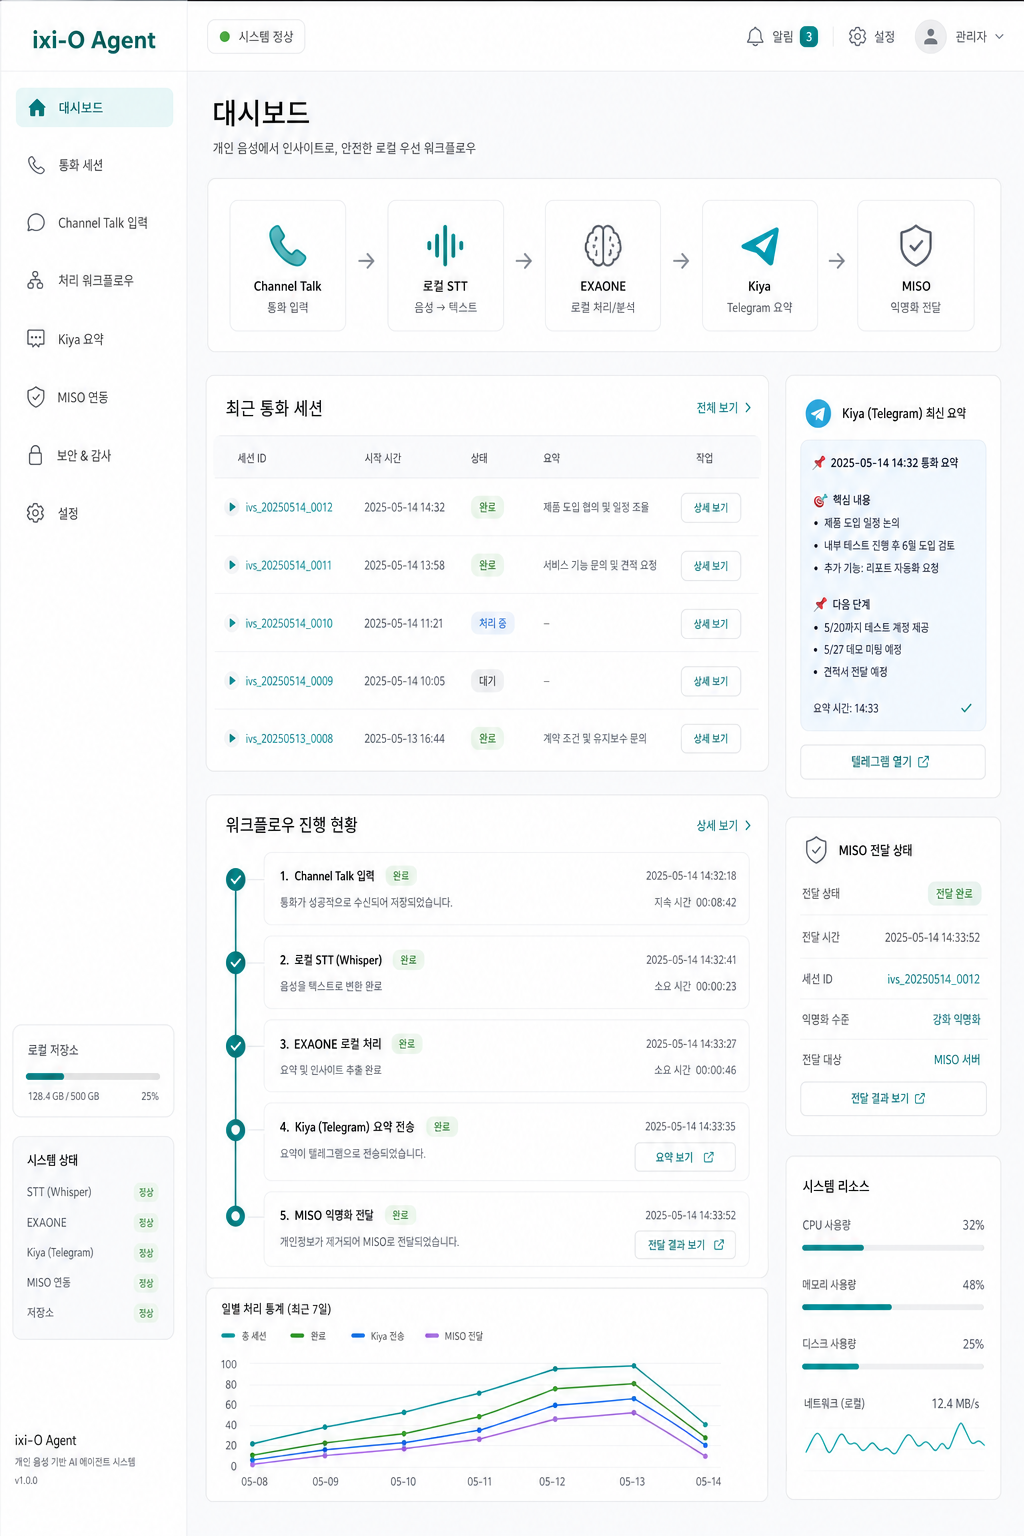
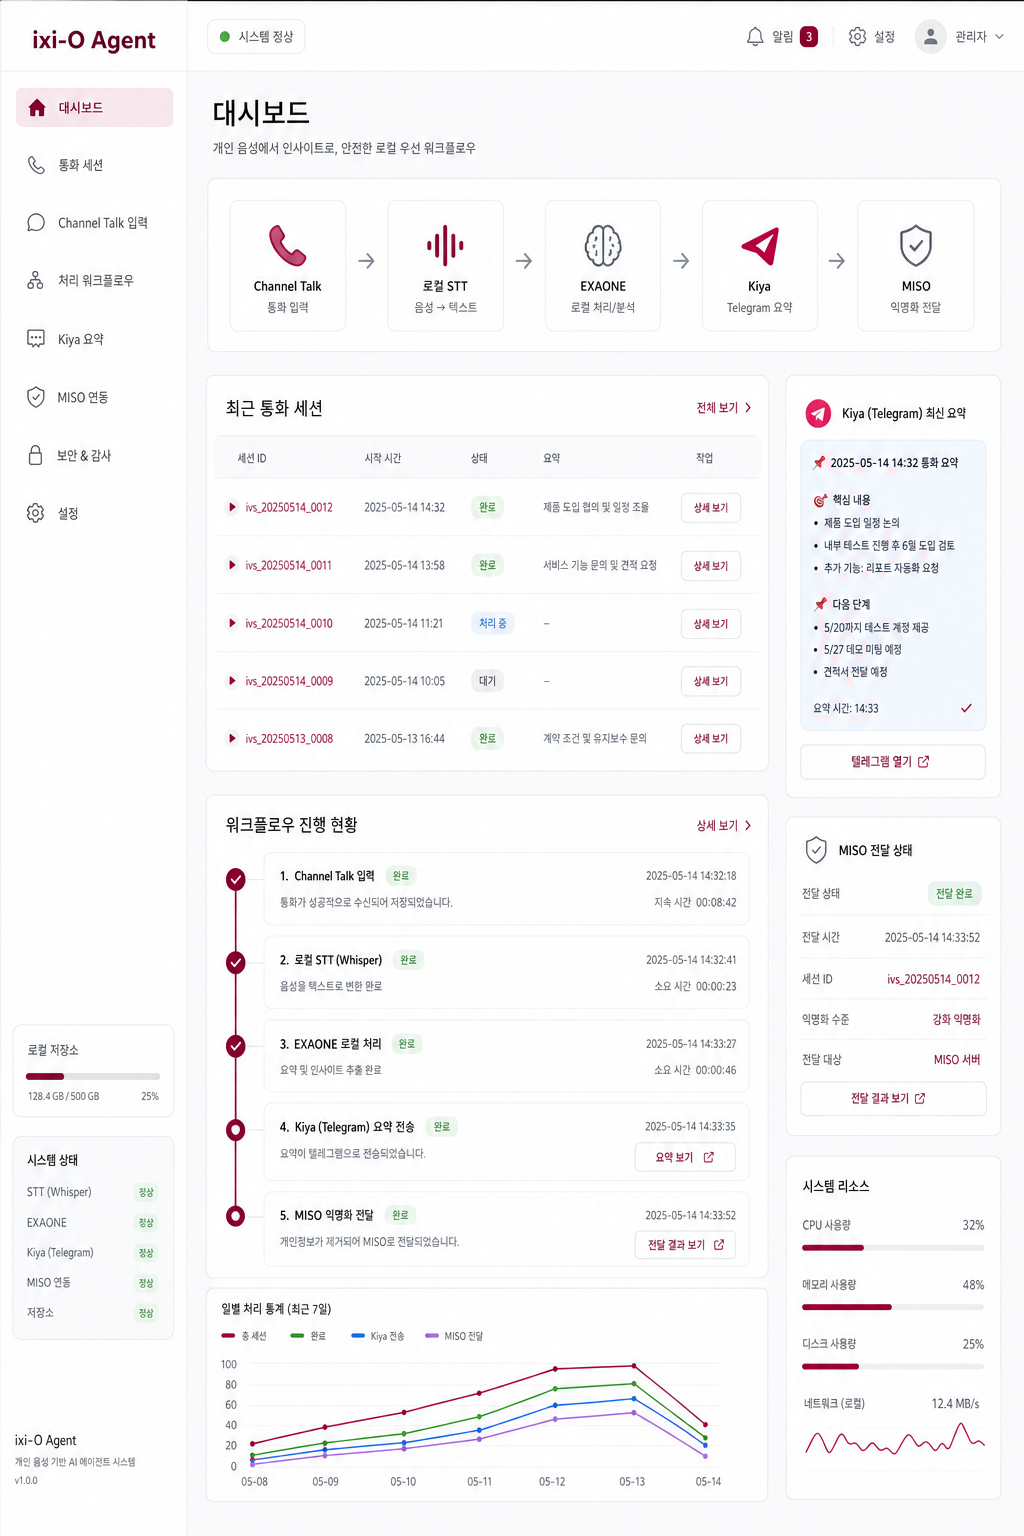
Apply ixi-O visual branding

diff --git a/apps/local-web/src/app/styles.css b/apps/local-web/src/app/styles.css
@@ -1,13 +1,16 @@
 :root {
   color-scheme: light;
   font-family: -apple-system, BlinkMacSystemFont, "Segoe UI", sans-serif;
-  /* Brand tokens: update these values later to re-skin the product without rewriting component CSS. */
-  --brand-primary: #2563eb;
-  --brand-primary-hover: #1d4ed8;
-  --brand-primary-weak: #eaf2ff;
-  --brand-primary-weak-border: #c9dcff;
-  --brand-focus-ring: rgba(37, 99, 235, 0.24);
-  --color-background: #f7f8fa;
+  /* Brand tokens: LG U+ / ixi-O inspired, isolated so exact brand-guide values can be swapped later. */
+  --brand-primary: #a50034;
+  --brand-primary-hover: #87002a;
+  --brand-primary-weak: #fff0f5;
+  --brand-primary-weak-border: #f1bad0;
+  --brand-secondary: #6f2cff;
+  --brand-secondary-weak: #f4f0ff;
+  --brand-accent-warm: #f0406d;
+  --brand-focus-ring: rgba(165, 0, 52, 0.24);
+  --color-background: #faf8fb;
   --color-surface: #ffffff;
   --color-surface-muted: #f9fafb;
   --color-surface-subtle: #f2f4f6;
@@ -23,9 +26,9 @@
   --status-success-border: #b7e8d2;
   --status-warning: #b76e00;
   --status-warning-weak: #fff4dc;
-  --code-surface: #eef5ff;
-  --code-border: #c9dcff;
-  --code-text: #174ea6;
+  --code-surface: #fff3f7;
+  --code-border: #f1bad0;
+  --code-text: #8a002b;
   --radius-control: 8px;
   --shadow-raised: 0 20px 50px rgba(25, 31, 40, 0.1);
   --shadow-soft: 0 14px 36px rgba(25, 31, 40, 0.08);
@@ -705,7 +708,7 @@ pre {
   height: 34px;
   place-items: center;
   border-radius: 8px;
-  background: var(--brand-primary);
+  background: linear-gradient(135deg, var(--brand-primary), var(--brand-accent-warm) 62%, var(--brand-secondary));
   color: var(--color-surface);
   font-size: 13px;
   letter-spacing: 0;
@@ -888,7 +891,7 @@ pre {
   align-items: center;
   padding: 14px 16px;
   border-bottom: 1px solid var(--color-border);
-  background: var(--color-surface-muted);
+  background: linear-gradient(90deg, var(--brand-primary-weak), var(--color-surface-muted) 58%);
 }
 
 .showcase-product-header span,
@@ -913,7 +916,7 @@ pre {
   margin: 0;
   overflow: hidden;
   border-bottom: 1px solid var(--color-border);
-  background: var(--color-surface-subtle);
+  background: linear-gradient(135deg, var(--brand-primary-weak), var(--brand-secondary-weak));
 }
 
 .showcase-product-visual img {

diff --git a/apps/showcase-static/styles.css b/apps/showcase-static/styles.css
@@ -1,13 +1,16 @@
 :root {
   color-scheme: light;
   font-family: -apple-system, BlinkMacSystemFont, "Segoe UI", sans-serif;
-  /* Brand tokens: update these values later to re-skin the product without rewriting component CSS. */
-  --brand-primary: #2563eb;
-  --brand-primary-hover: #1d4ed8;
-  --brand-primary-weak: #eaf2ff;
-  --brand-primary-weak-border: #c9dcff;
-  --brand-focus-ring: rgba(37, 99, 235, 0.24);
-  --color-background: #f7f8fa;
+  /* Brand tokens: LG U+ / ixi-O inspired, isolated so exact brand-guide values can be swapped later. */
+  --brand-primary: #a50034;
+  --brand-primary-hover: #87002a;
+  --brand-primary-weak: #fff0f5;
+  --brand-primary-weak-border: #f1bad0;
+  --brand-secondary: #6f2cff;
+  --brand-secondary-weak: #f4f0ff;
+  --brand-accent-warm: #f0406d;
+  --brand-focus-ring: rgba(165, 0, 52, 0.24);
+  --color-background: #faf8fb;
   --color-surface: #ffffff;
   --color-surface-muted: #f9fafb;
   --color-surface-subtle: #f2f4f6;
@@ -23,9 +26,9 @@
   --status-success-border: #b7e8d2;
   --status-warning: #b76e00;
   --status-warning-weak: #fff4dc;
-  --code-surface: #eef5ff;
-  --code-border: #c9dcff;
-  --code-text: #174ea6;
+  --code-surface: #fff3f7;
+  --code-border: #f1bad0;
+  --code-text: #8a002b;
   --radius-control: 8px;
   --shadow-raised: 0 20px 50px rgba(25, 31, 40, 0.1);
   --shadow-soft: 0 14px 36px rgba(25, 31, 40, 0.08);
@@ -84,7 +87,7 @@ a {
   height: 34px;
   place-items: center;
   border-radius: 8px;
-  background: var(--brand-primary);
+  background: linear-gradient(135deg, var(--brand-primary), var(--brand-accent-warm) 62%, var(--brand-secondary));
   color: var(--color-surface);
   font-size: 13px;
 }
@@ -273,7 +276,7 @@ p {
   align-items: center;
   padding: 14px 16px;
   border-bottom: 1px solid var(--color-border);
-  background: var(--color-surface-muted);
+  background: linear-gradient(90deg, var(--brand-primary-weak), var(--color-surface-muted) 58%);
 }
 
 .product-header span,
@@ -296,7 +299,7 @@ p {
   margin: 0;
   overflow: hidden;
   border-bottom: 1px solid var(--color-border);
-  background: var(--color-surface-subtle);
+  background: linear-gradient(135deg, var(--brand-primary-weak), var(--brand-secondary-weak));
 }
 
 .product-visual img {

diff --git a/docs/tds-inspired-design-system.md b/docs/tds-inspired-design-system.md
@@ -11,6 +11,8 @@ ixi-O Agent applies Toss Design System ideas as product design principles, not a
 - TDS Mobile ListRow: https://tossmini-docs.toss.im/tds-mobile/components/ListRow/list-row-overview/
 - TDS Mobile Segmented Control: https://tossmini-docs.toss.im/tds-mobile/components/segmented-control/
 - TDS Mobile Colors: https://tossmini-docs.toss.im/tds-mobile/foundation/colors/
+- LG CI color system: https://www.lgcorp.com/about/ci/element
+- LG U+ AI / ixi-O service context: https://www.lguplus.com/about/en/service/ai
 
 ## License Boundary
 
@@ -27,6 +29,7 @@ The Apps in Toss Figma/TDS Mobile UI Kit license restricts use of the UI Kit and
 - ListRow: represent artifacts and handoff payloads as left context, center meaning, and right status/action.
 - Segmented control: use a two-option control for Enterprise and Personal modes because only one path is active at a time.
 - Colors: use semantic variables first, then map brand colors to variables. Avoid hardcoded brand values inside components.
+- Brand expression: use LG RED as the primary anchor, restrained ixi-O digital purple only as a secondary accent, and keep the base UI neutral/TDS-like so the page does not become a one-color marketing screen.
 
 ## Token Locations
 
@@ -49,7 +52,31 @@ The main brand-editable tokens are:
 --brand-primary-hover
 --brand-primary-weak
 --brand-primary-weak-border
+--brand-secondary
+--brand-secondary-weak
+--brand-accent-warm
 --brand-focus-ring
+```
+
+Current mapping:
+
+```css
+--brand-primary: #a50034; /* LG RED, based on LG CI RGB 165 0 52 */
+--brand-primary-hover: #87002a;
+--brand-primary-weak: #fff0f5;
+--brand-primary-weak-border: #f1bad0;
+--brand-secondary: #6f2cff; /* ixi-O digital accent, not an official locked value */
+--brand-secondary-weak: #f4f0ff;
+--brand-accent-warm: #f0406d;
+--brand-focus-ring: rgba(165, 0, 52, 0.24);
+```
+
+The screenshot asset used in the showcase has also been recolored from the
+earlier teal prototype accents to this LG U+ / ixi-O palette:
+
+```text
+apps/local-web/public/assets/ixi-o-agent-voice-bridge.png
+apps/showcase-static/assets/ixi-o-agent-voice-bridge.png
 ```
 
 Neutral UI tokens are intentionally separate:
@@ -65,3 +92,5 @@ Neutral UI tokens are intentionally separate:
 ```
 
 This lets the final ixi-O Agent brand color change later without revisiting every component.
+If LG U+ or ixi-O supplies exact event-safe brand values, replace the token
+values above and regenerate the screenshot asset from the local dashboard.

diff --git a/docs/submission-pack.md b/docs/submission-pack.md
@@ -39,8 +39,11 @@ It does not include raw transcripts, local model execution, Channel Talk
 credentials, or any customer data.
 
 Design implementation note: the showcase uses ixi-O Agent's own semantic CSS
-tokens and components. Toss UI Kit assets are not copied or imported; see
-`docs/tds-inspired-design-system.md` for the source review and license boundary.
+tokens and components. Toss UI Kit assets are not copied or imported. Visual
+materials use an LG U+ / ixi-O-inspired palette with LG RED as the primary
+anchor and a restrained digital purple secondary accent; see
+`docs/tds-inspired-design-system.md` for the source review, token locations,
+and license boundary.
 
 ## Architecture
 

diff --git a/README.md b/README.md
@@ -50,6 +50,7 @@ The public showcase and local `/showcase` page now use a TDS-inspired interactio
 - ListRow-style rows show source artifacts, meaning, and current status in one scan path.
 - Enterprise/Personal switching follows a segmented-control pattern.
 - Brand colors are isolated in `--brand-*` CSS variables so the visual identity can be changed later without rewriting component styles.
+- Current visual materials use an LG U+ / ixi-O-inspired palette: LG RED as the primary anchor, restrained digital purple as a secondary accent, and neutral TDS-like surfaces for readability.
 
 We do not copy or import Toss UI Kit assets. See `docs/tds-inspired-design-system.md` for source links, license boundary, and token locations.
 